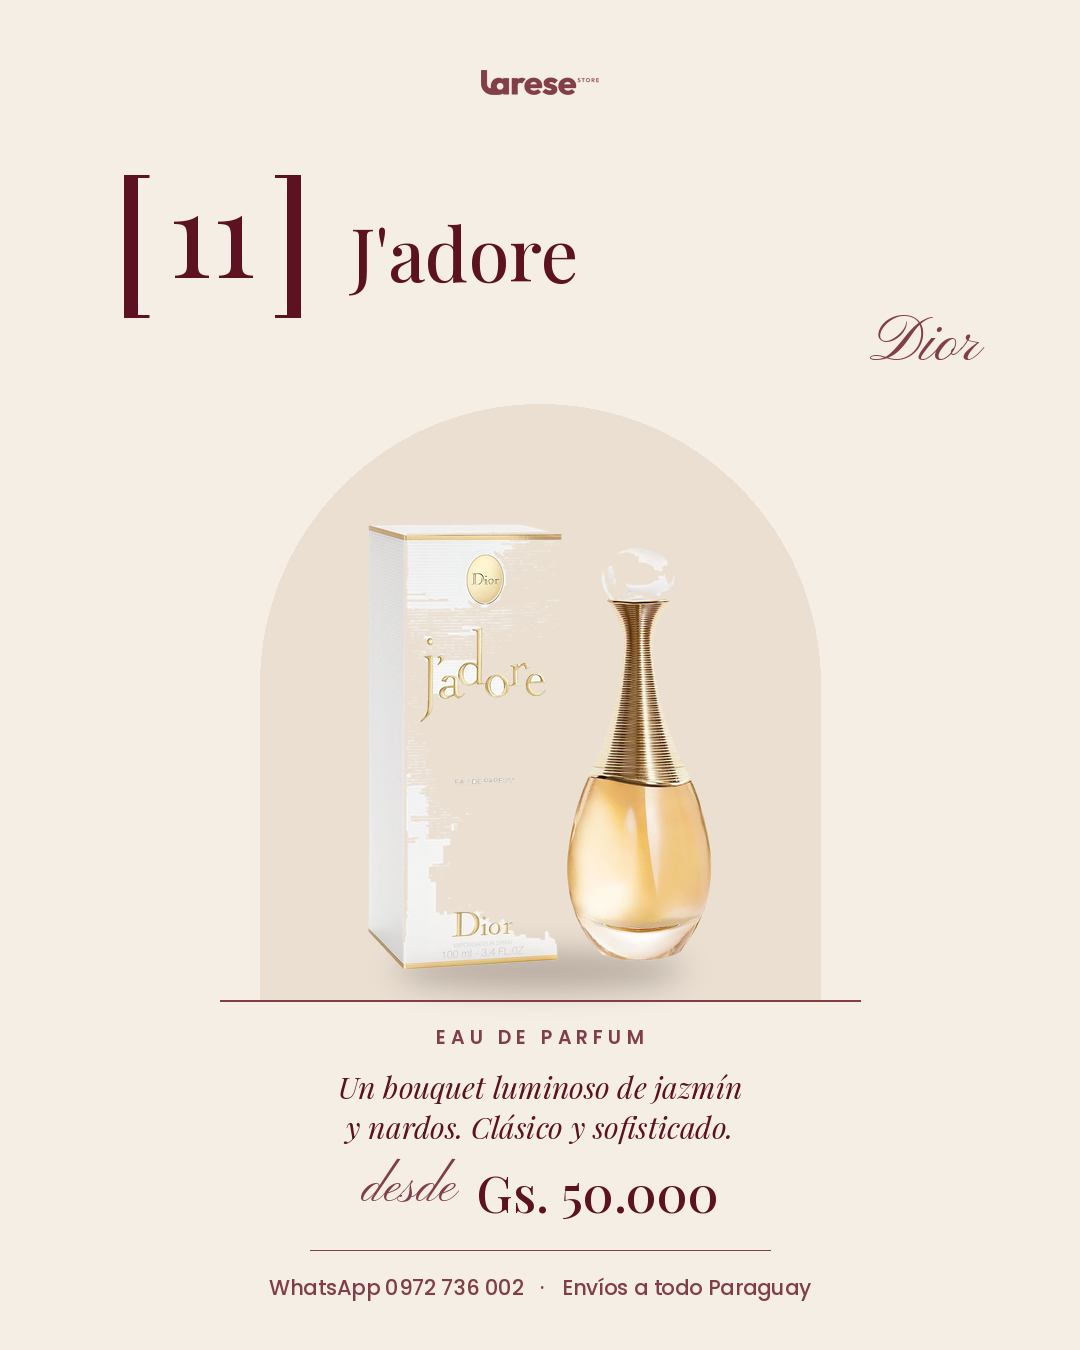
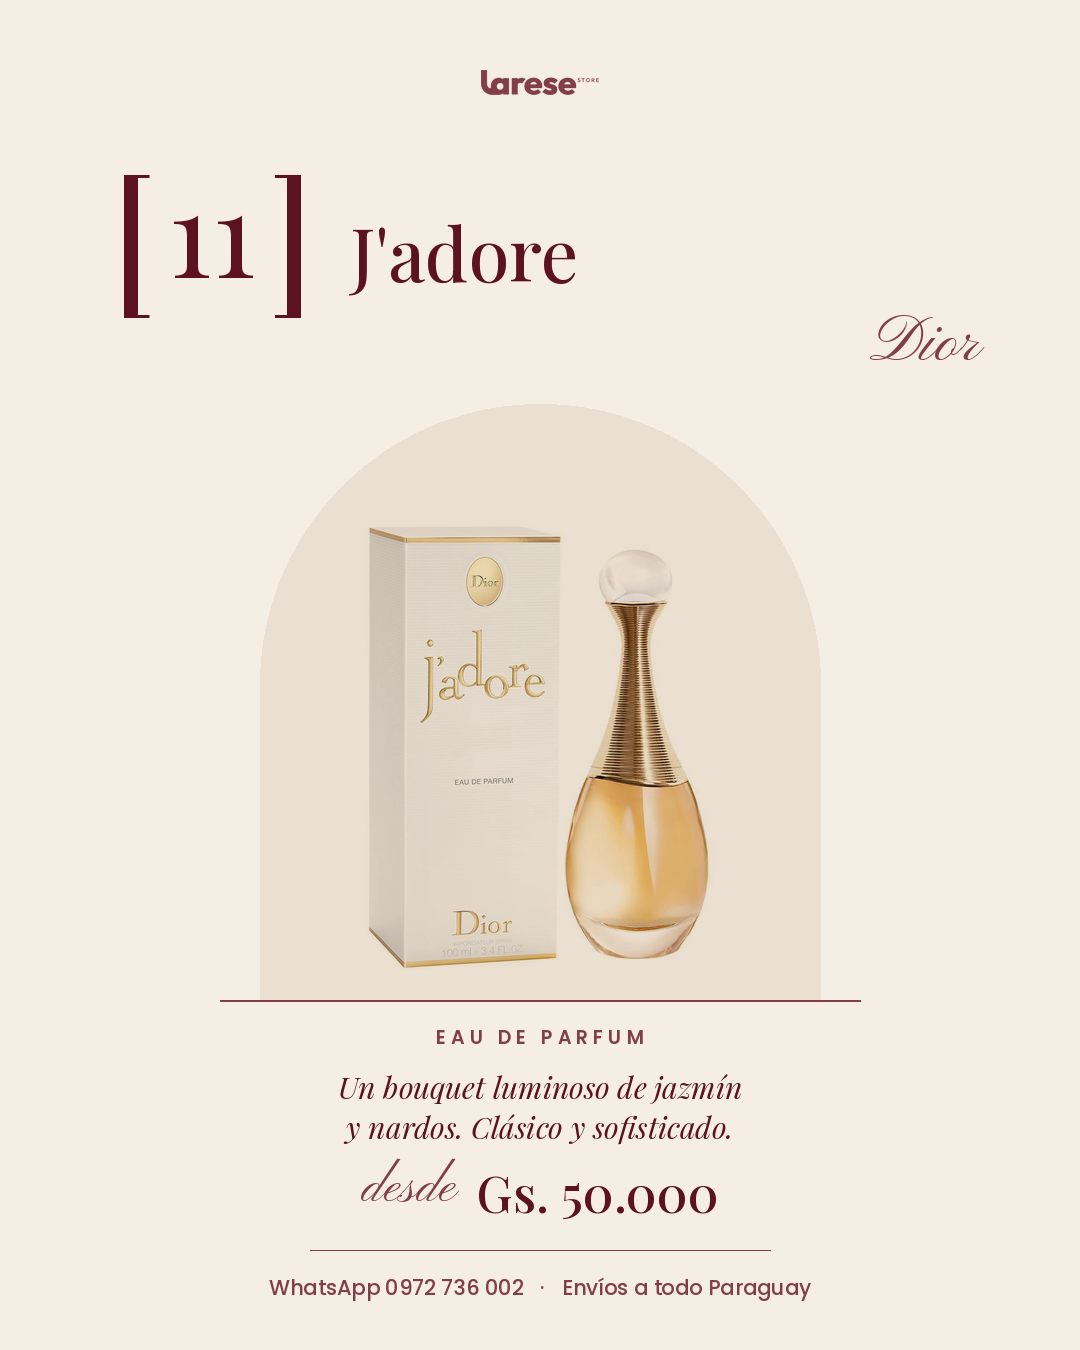
Fix J'adore box in the most-requested carousel
Photos with white packaging lose parts of the box when the white
background is cut out. Add a no-cutout option that blends the photo into
the arch instead, and use it for J'adore.

Claude-Session: https://claude.ai/code/session_01DnzkNKJhqUcY9fq9B6hf8x

Changed region(s): [[0.3361, 0.3733, 0.6722, 0.7467]]

diff --git a/herramientas/carrusel-bordo/scripts/crear_carrusel.py b/herramientas/carrusel-bordo/scripts/crear_carrusel.py
@@ -35,7 +35,7 @@ import os
 import sys
 
 import numpy as np
-from PIL import Image, ImageDraw, ImageFilter, ImageFont, ImageOps
+from PIL import Image, ImageChops, ImageDraw, ImageFilter, ImageFont, ImageOps
 
 AQUI = os.path.dirname(os.path.abspath(__file__))
 ASSETS = os.path.join(AQUI, "..", "assets")
@@ -193,6 +193,22 @@ def pegar_producto(img, prod, caja, sombra_color=(40, 10, 15)):
     img.alpha_composite(p, (px, py))
 
 
+def fundir_foto(img, ruta, caja):
+    """Para fotos con fondo blanco y partes blancas (cajas): sin recortar, se funde con el fondo (multiplicar)."""
+    x0, y0, x1, y1 = caja
+    f = ImageOps.exif_transpose(Image.open(ruta)).convert("RGB")
+    a = np.array(f)
+    ys, xs = np.where(a.min(-1) < 245)
+    if len(xs):
+        f = f.crop((max(xs.min() - 10, 0), max(ys.min() - 10, 0),
+                    min(xs.max() + 10, f.width), min(ys.max() + 10, f.height)))
+    esc = min((x1 - x0) / f.width, (y1 - y0) / f.height)
+    f = f.resize((int(f.width * esc), int(f.height * esc)), Image.LANCZOS)
+    px, py = int((x0 + x1) / 2 - f.width / 2), int(y1 - f.height)
+    zona = img.crop((px, py, px + f.width, py + f.height)).convert("RGB")
+    img.paste(ImageChops.multiply(zona, f), (px, py))
+
+
 def tarjeta_foto(img, foto, caja, color_borde):
     """Para fotos que no se pueden recortar: tarjeta con borde fino."""
     x0, y0, x1, y1 = caja
@@ -280,9 +296,16 @@ def slide_producto(p, n, fotos_dir, oscuro):
     top_arco = y_marca + 100
     caja_arco = (W / 2 - 280, top_arco, W / 2 + 280, 1000)
     arco(img, caja_arco, fondo_arco)
-    prod, recortado = cargar_producto(os.path.join(fotos_dir, p["foto"]))
+    ruta_foto = os.path.join(fotos_dir, p["foto"])
     caja_prod = (caja_arco[0] + 65, top_arco + 120, caja_arco[2] - 65, 1000 - 30)
-    if recortado:
+    if p.get("recorte") is False:
+        fundir_foto(img, ruta_foto, caja_prod)
+        recortado = None
+    else:
+        prod, recortado = cargar_producto(ruta_foto)
+    if recortado is None:
+        pass
+    elif recortado:
         pegar_producto(img, prod, caja_prod)
     else:
         tarjeta_foto(img, prod, caja_prod, suave)
